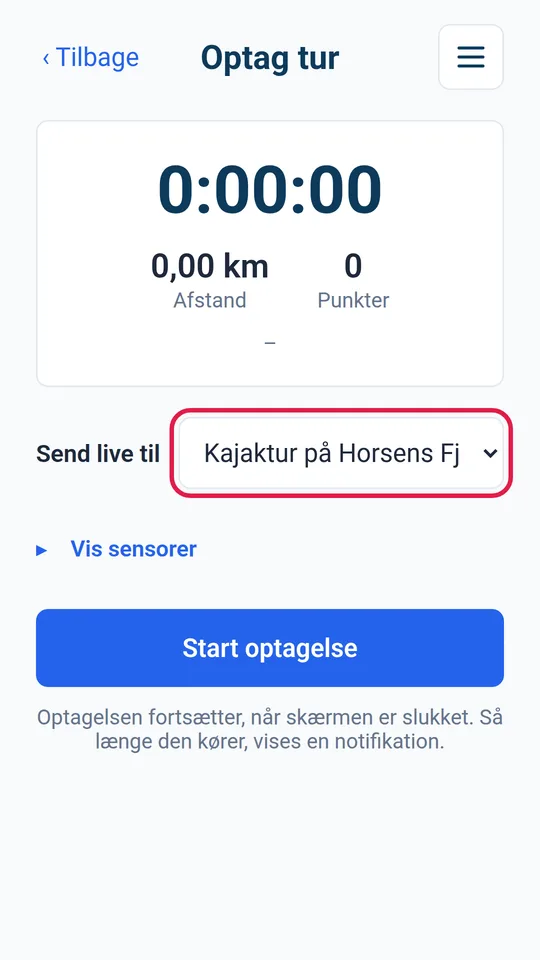
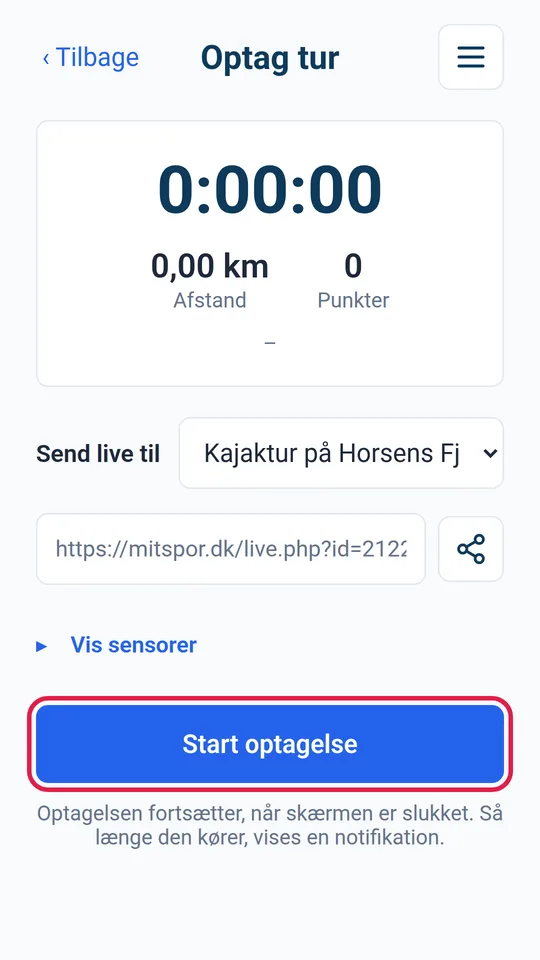
Vejledning: linket til livesiden deles fra appen

diff --git a/public/vejledning/foelg-med.php b/public/vejledning/foelg-med.php
@@ -47,15 +47,12 @@ echo vj_overskrift('foelg-med');
     ', vj_billede('web-live-ny.webp', 'Dialogen Ny livesending med Kun personer med linket valgt og knappen Gem')) ?>
 
     <?= vj_trin('Send linket til familien', '
-        <p>Linket til livesiden finder du på mitspor.dk:</p>
-        <ol>
-            <li>Tryk på <strong class="knap">Åbn mitspor.dk</strong> på appens startside, og vælg <strong>Kontrolpanel</strong>.</li>
-            <li>Tryk på fanen <strong>Live</strong>, og vælg livesendingen.</li>
-            <li>Tryk på knappen ved siden af linket for at kopiere det.</li>
-        </ol>
-        <p>Sæt linket ind i en besked til familien, som du plejer. Du kan godt sende det allerede nu. Indtil du
-        starter, står der bare <strong>Ikke startet endnu</strong> på livesiden.</p>
-    ', vj_billede('web-live-link.webp', 'Livesendingen i kontrolpanelet med linket og kopiér-knappen fremhævet')) ?>
+        <p>Under <strong>Send live til</strong> står nu linket til livesiden. Tryk på
+        <strong>del-knappen</strong> til højre for det, og vælg, hvordan du vil sende linket, fx Messenger eller SMS.</p>
+        <p>Du kan godt sende linket allerede nu. Indtil du starter, står der bare <strong>Ikke startet endnu</strong>
+        på livesiden.</p>
+        <p>Linket findes også i kontrolpanelet på mitspor.dk under fanen <strong>Live</strong>.</p>
+    ', vj_billede('app-live-del.webp', 'Optageren med linket til livesiden og del-knappen fremhævet')) ?>
 
     </div>
 
@@ -67,7 +64,7 @@ echo vj_overskrift('foelg-med');
         <p>Åbn optageren. Ud for <strong>Send live til</strong> står din livesending allerede. Står der
         <strong>Nej</strong>, så tryk og vælg den.</p>
         <p>Tryk på <strong class="knap">Start optagelse</strong>, præcis som på en almindelig tur.</p>
-    ', vj_billede('app-live-valg.webp', 'Optageren med Send live til Kajaktur på Horsens Fjord valgt')) ?>
+    ', vj_billede('app-live-valg.webp', 'Optageren med Send live til Kajaktur på Horsens Fjord valgt og knappen Start optagelse fremhævet')) ?>
 
     <?= vj_trin('Pak telefonen væk', '
         <p>Under uret står der nu <strong>Sender live til …</strong> og hvornår appen sidst sendte din position.
